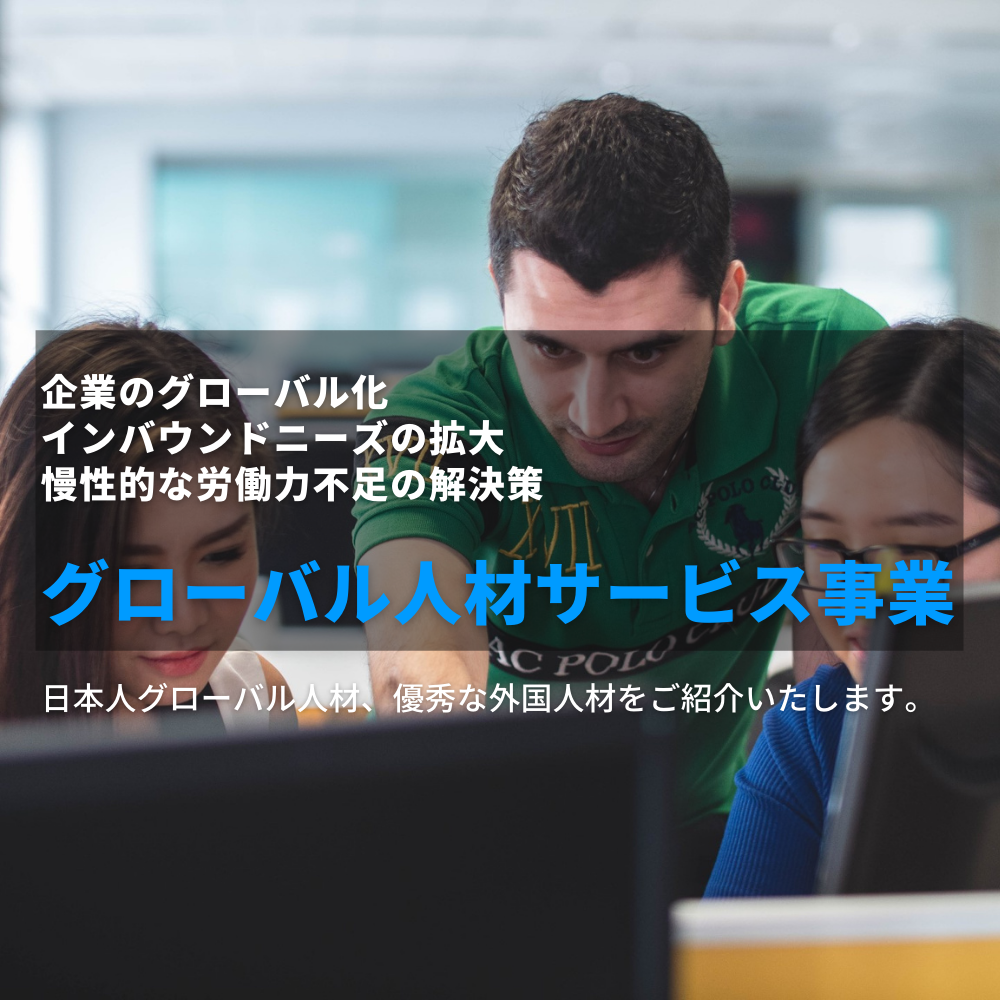
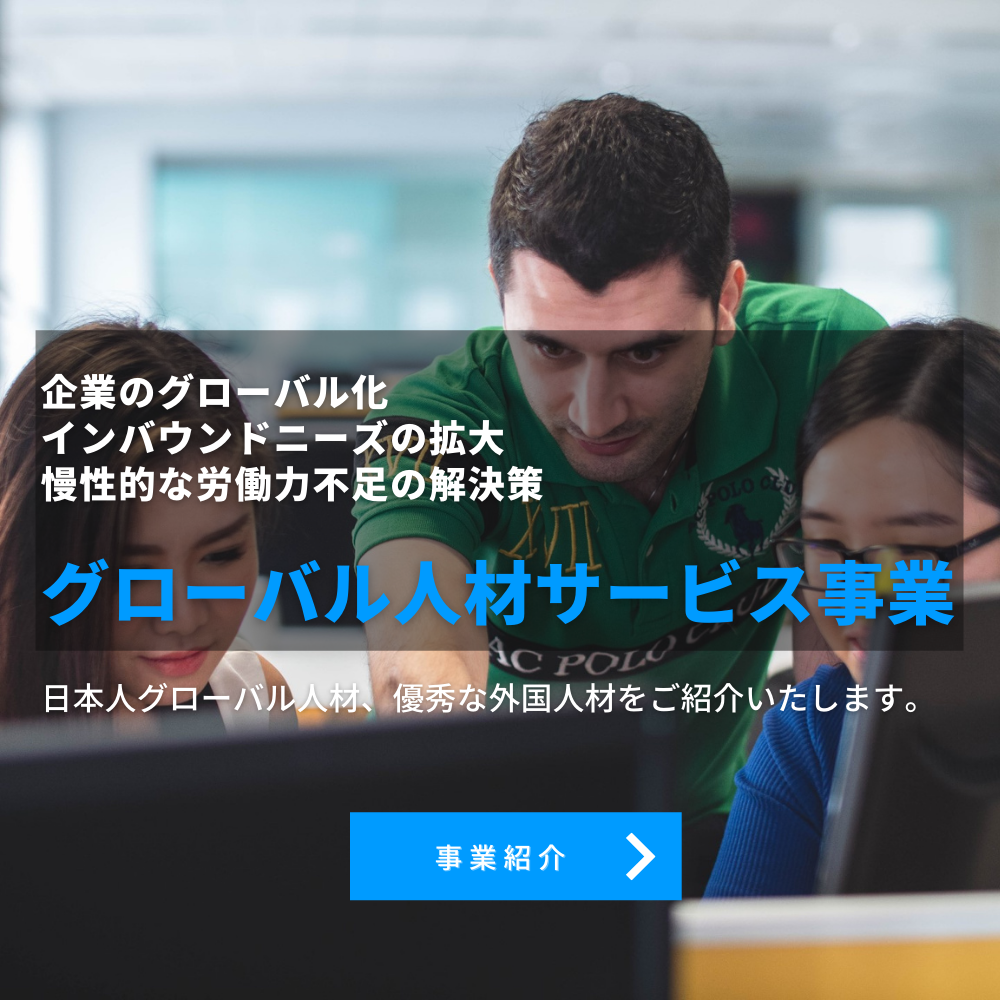
up

Changed region(s): [[0.341, 0.806, 0.682, 0.899]]

diff --git a/docs/index.html b/docs/index.html
@@ -150,15 +150,16 @@
     <!-- トップSlider sp -->
     <div class="row sp">
       <div class="col-lg-12">
-        <div class="owl-carousel owl-theme dots-morphing" data-plugin-options="{'center': true, 'loop': true, 'nav': false, 'dots': true, 'margin': 10, 'autoplay': true, 'autoplayTimeout': 3000}">
+        <div class="owl-carousel owl-theme dots-morphing mb-0" data-plugin-options="{'center': true, 'loop': true, 'nav': false, 'dots': true, 'margin': 10, 'autoplay': true, 'autoplayTimeout': 3000}">
           <div>
-            <img alt="" class="img-fluid rounded" src="assets/img/top/slide-sp01.png">
+            <a href="service.html">
+            <img alt="グローバルキャリア事業紹介" class="img-fluid rounded" src="assets/img/top/slide-sp01.png">
+            </a>
           </div>
           <div>
-            <img alt="" class="img-fluid rounded" src="img/projects/project-6.jpg">
-          </div>
-          <div>
-            <img alt="" class="img-fluid rounded" src="img/projects/project-7.jpg">
+            <a href="interview.html">
+            <img alt="グローバルキャリア海外現地面接会" class="img-fluid rounded" src="assets/img/top/slide-sp02.png">
+          </a>
           </div>
         </div>
       </div>

diff --git a/docs/css/custom.css b/docs/css/custom.css
@@ -95,4 +95,13 @@ td, th {
   }
 }
 
+/* トップページsp版　ボタンの色 */
+.owl-carousel .owl-dots .owl-dot.active span, .owl-carousel .owl-dots .owl-dot:hover span {
+    background-color: #00AEEF;
+}
+
+.owl-theme .owl-nav.disabled+.owl-dots {
+    margin-top: 0px!important;
+}
+
 /* 個人情報チェック */
